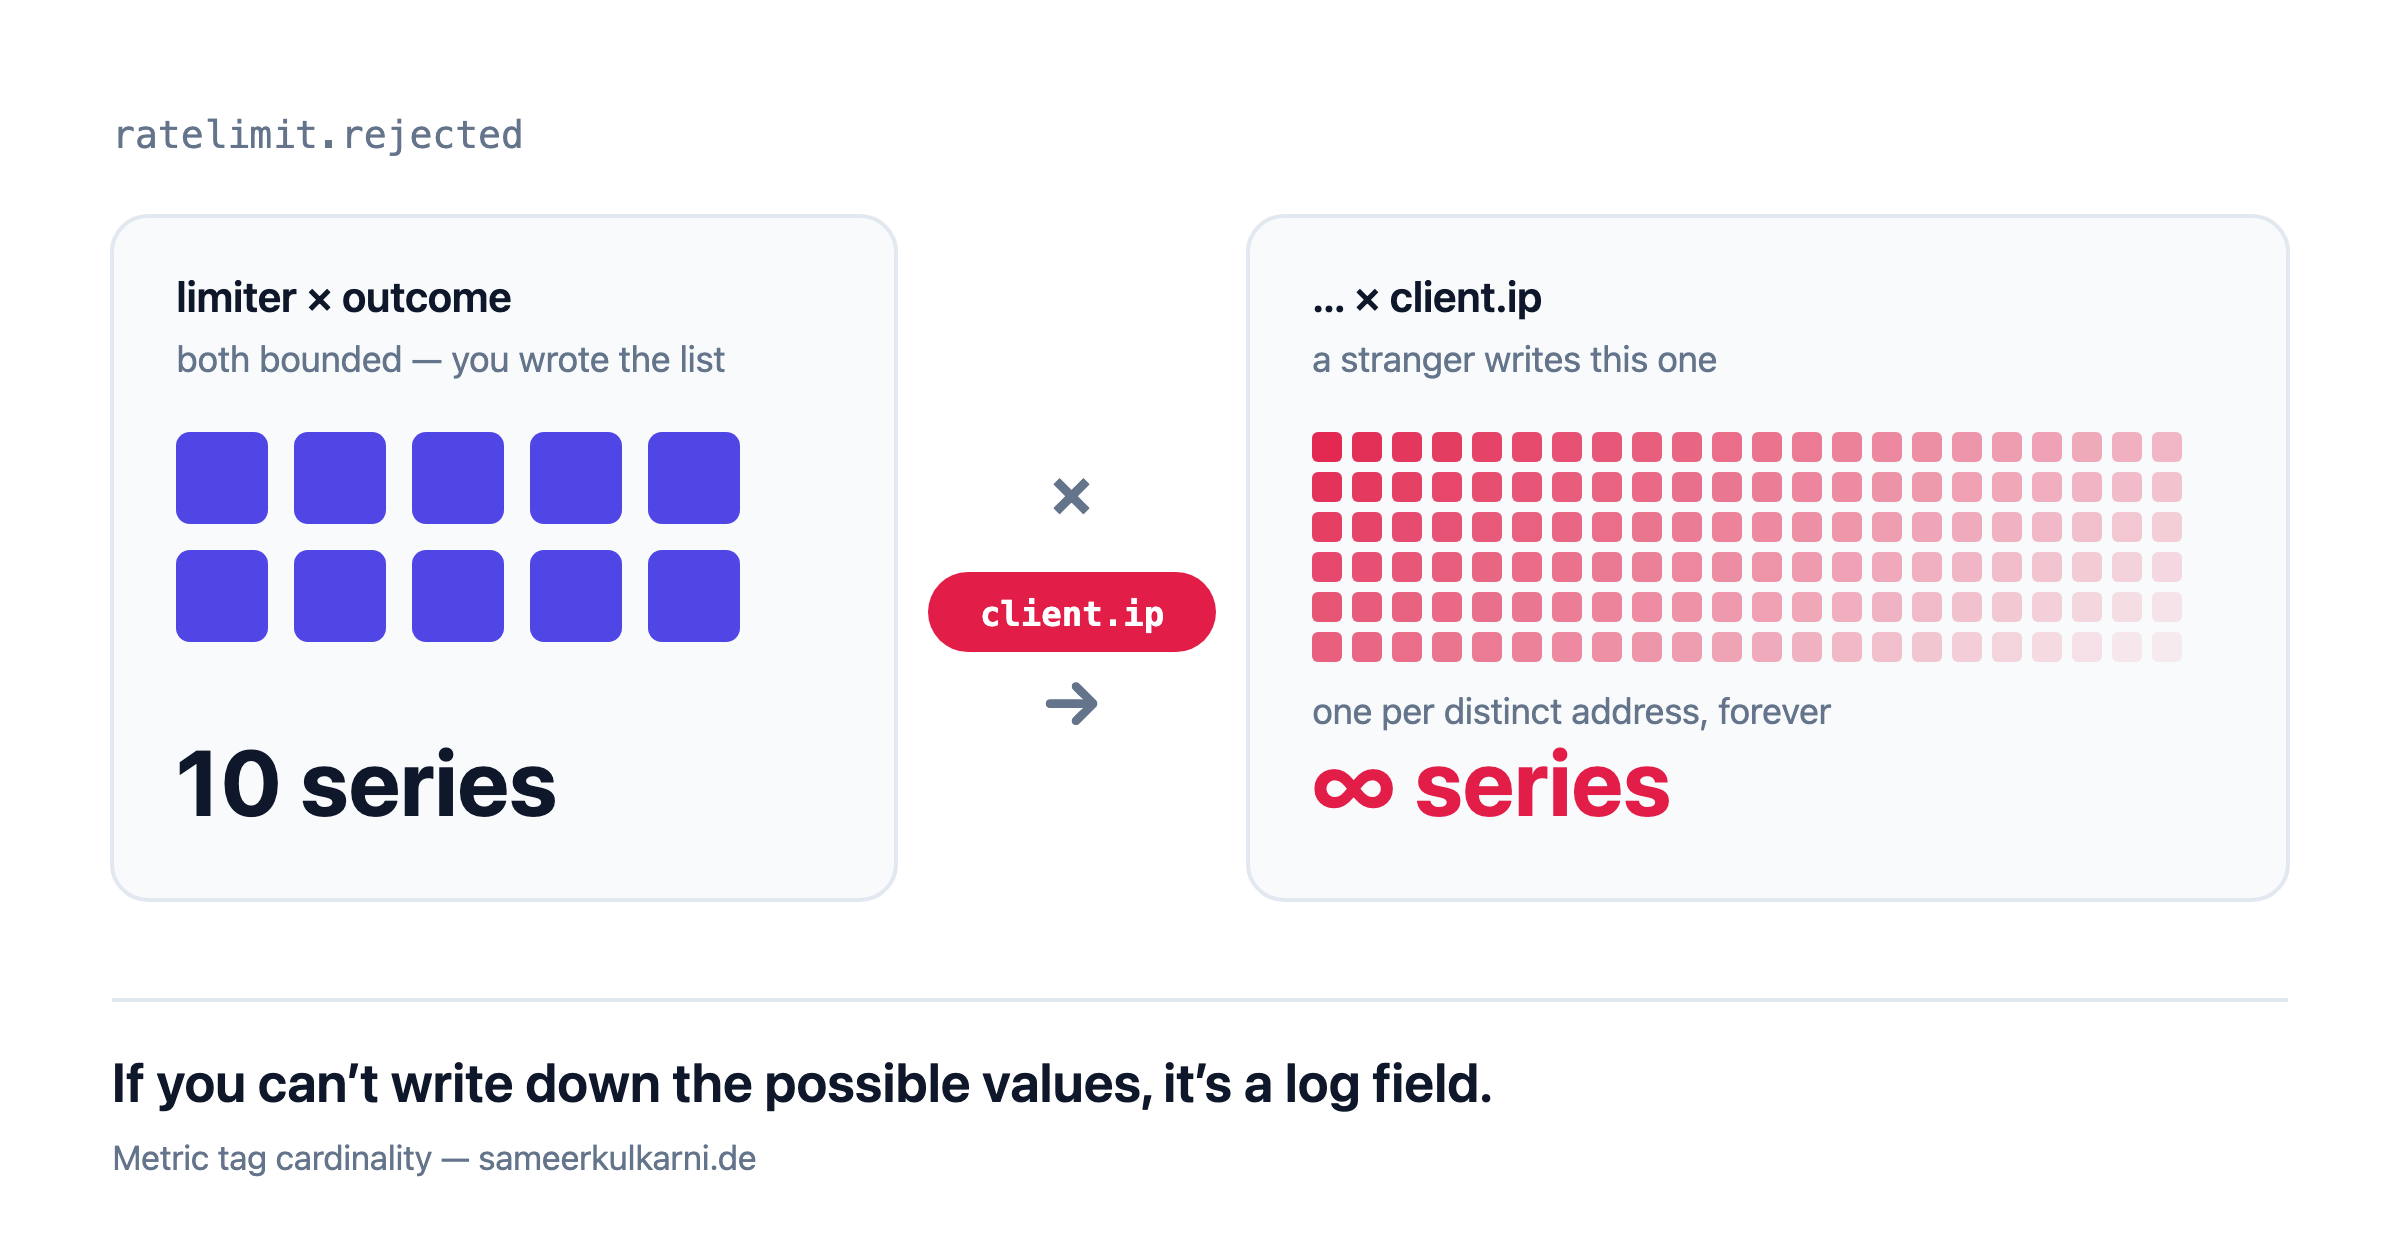
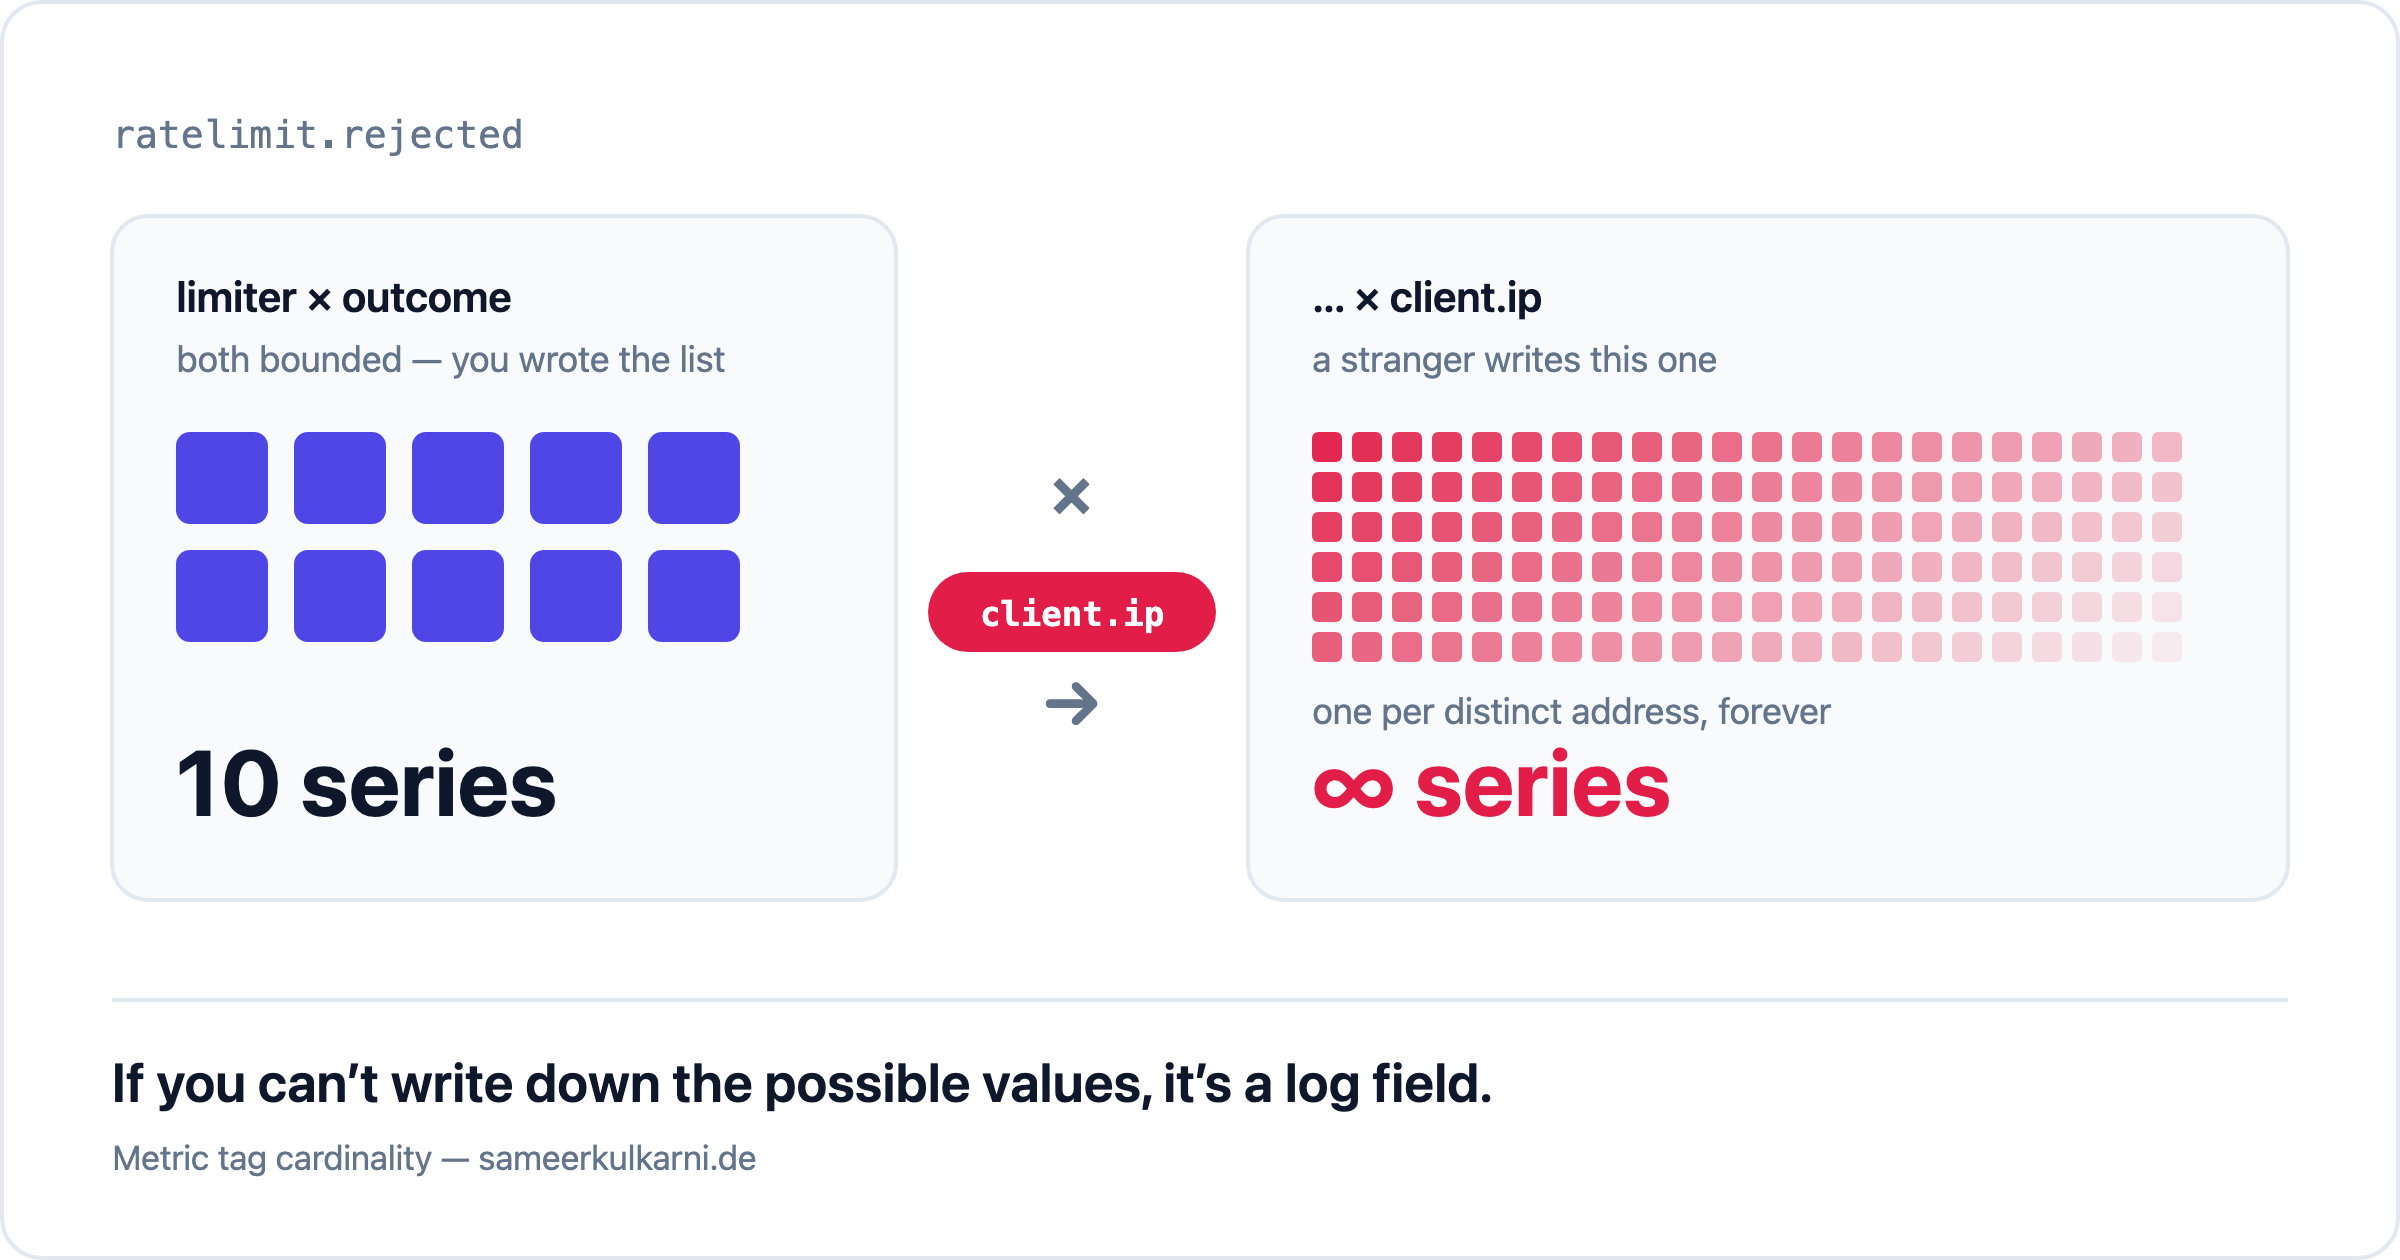
Show the cardinality diagram in the article itself
Adds the SVG inline at the top of the post rather than restoring the
header-image rendering removed in e4af5f5 — those were stock banners that
earned nothing, whereas this diagram carries the argument. Only this post
gets an image; the other six are unchanged.

Uses the SVG (14 KB, crisp at any width) on the page and keeps the PNG for
og:image, since crawlers do not reliably render SVG cards. The SVG now has
rounded corners and a slate border so it reads as a card in dark mode
instead of a white slab, and has a defined edge in light mode.

Changed region(s): [[0.0, 0.9905, 1.0, 1.0], [0.0, 0.0, 1.0, 0.031]]

diff --git a/content/posts/high-cardinality-metric-tags.md b/content/posts/high-cardinality-metric-tags.md
@@ -22,6 +22,8 @@ description: >-
   one time series per stranger in production. The bill is the second-worst
   consequence.
 ---
+![Two panels. Left: limiter times outcome, both bounded, ten indigo squares, ten series. Right: the same metric times client.ip, a fading field of squares running off the edge, one per distinct address, infinite series.](/assets/diagrams/metric-cardinality.svg)
+
 ## The symptom
 
 There wasn't one. That's the problem.
